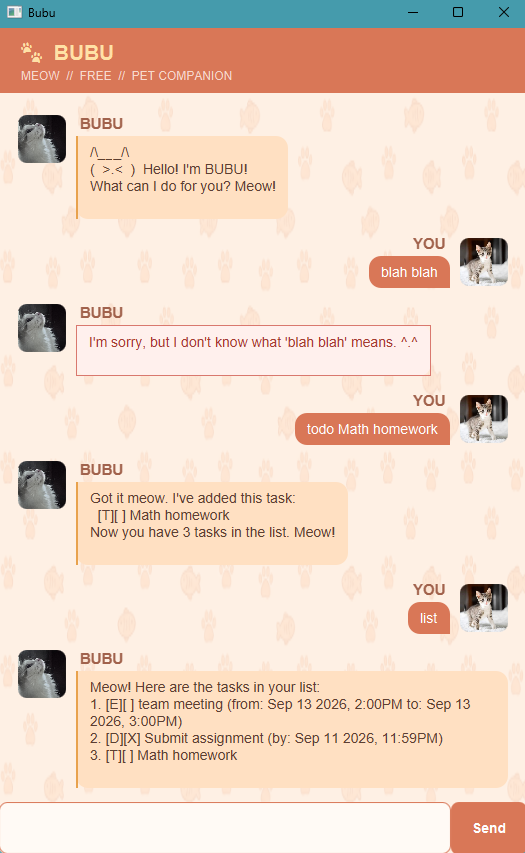
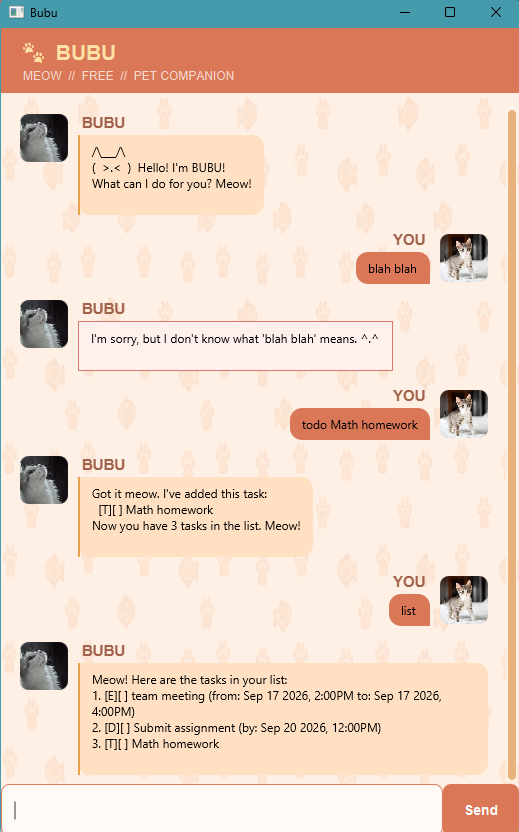
docs: Update Bubu documentation and screenshot
Refresh the project README branding and replace the User Guide screenshot
to reflect Bubu's current dialog layout.

diff --git a/README.md b/README.md
@@ -1,30 +1,38 @@
 # Bubu
 
+```text
+/\___/\
+(  >.<  )  Hello! I'm BUBU!
+```
+
 Bubu is a friendly pet-themed task management chatbot. It supports to-do tasks,
 deadlines, events, task search, and reminders through both a command-line
 interface and a JavaFX graphical user interface.
 
-## Setting up in Intellij
+## User Guide
 
-Prerequisites: JDK 25, update Intellij to the most recent version.
+For installation instructions and the complete command reference, see the
+[Bubu User Guide](https://xinyu-zxy.github.io/ip/).
 
-1. Open Intellij (if you are not in the welcome screen, click `File` > `Close Project` to close the existing project first)
-1. Open the project into Intellij as follows:
+## Setting up in IntelliJ
+
+Prerequisites: JDK 25 and the most recent IntelliJ version.
+
+1. Open IntelliJ. If you are not at the welcome screen, click `File` > `Close Project` first.
+1. Open the project in IntelliJ:
    1. Click `Open`.
    1. Select the project directory, and click `OK`.
    1. If there are any further prompts, accept the defaults.
-1. Configure the project to use **JDK 25** (not other versions) as explained in [here](https://www.jetbrains.com/help/idea/sdk.html#set-up-jdk).<br>
+1. Configure the project to use **JDK 25**, as explained in the
+   [IntelliJ JDK documentation](https://www.jetbrains.com/help/idea/sdk.html#set-up-jdk).<br>
    In the same dialog, set the **Project language level** field to the `SDK default` option.
-1. After that, locate the `src/main/java/bubu/Launcher.java` file, right-click it, and choose `Run 'Launcher.main()'` (if the code editor is showing compile errors, try restarting the IDE). If the setup is correct, the Bubu application should start.
-   ```
-    ____        _        
-   |  _ \ _   _| | _____ 
-   | | | | | | | |/ / _ \
-   | |_| | |_| |   <  __/
-   |____/ \__,_|_|\_\___|
-   ```
+1. Locate `src/main/java/bubu/Launcher.java`, right-click it, and choose
+   `Run 'Launcher.main()'`. If the code editor shows compile errors, restart
+   the IDE. If the setup is correct, the Bubu application starts.
 
-**Warning:** Keep the `src\main\java` folder as the root folder for Java files (i.e., don't rename those folders or move Java files to another folder outside of this folder path), as this is the default location some tools (e.g., Gradle) expect to find Java files.
+**Warning:** Keep `src\main\java` as the root folder for Java files. Do not
+rename those folders or move Java files outside that path, because tools such
+as Gradle expect the default project layout.
 
 ## Credits
 
